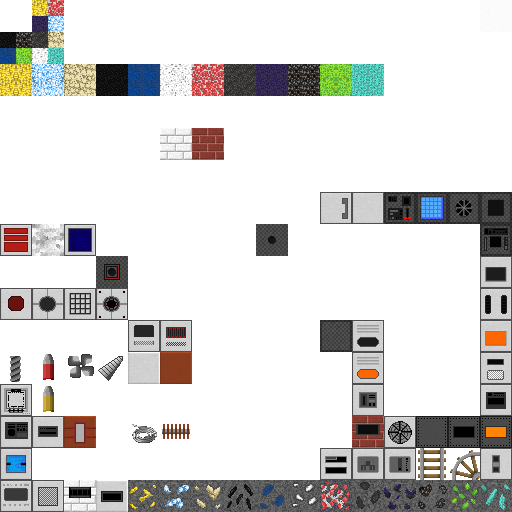
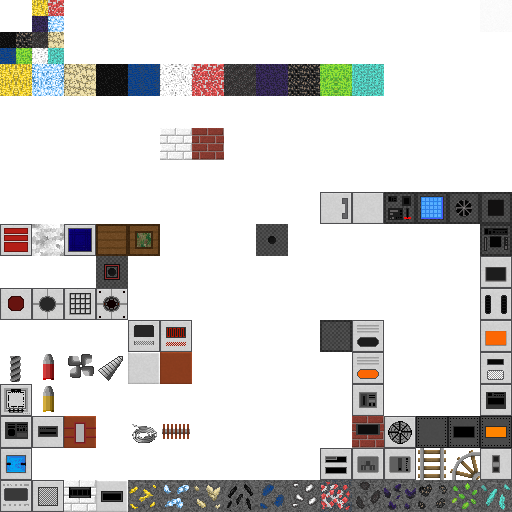
123

Changed region(s): [[0.1875, 0.4375, 0.3125, 0.5]]

diff --git a/Blocks/4DirectionalMachines.cs b/Blocks/4DirectionalMachines.cs
@@ -34,7 +34,17 @@ namespace Game
 
 		public CastMachBlock() : base(234) { }
 	}
-	public class CReactorBlock : PaintedCubeBlock
+    public class SourBlock : PaintedCubeBlock
+    {
+        public const int Index = 539;
+
+        public SourBlock() : base(186) { }
+        public override int GetFaceTextureSlot(int face, int value)
+        {
+            return face == 4 ? 115 : 116;
+        }
+    }
+    public class CReactorBlock : PaintedCubeBlock
 	{
 		public const int Index = 524;
 
